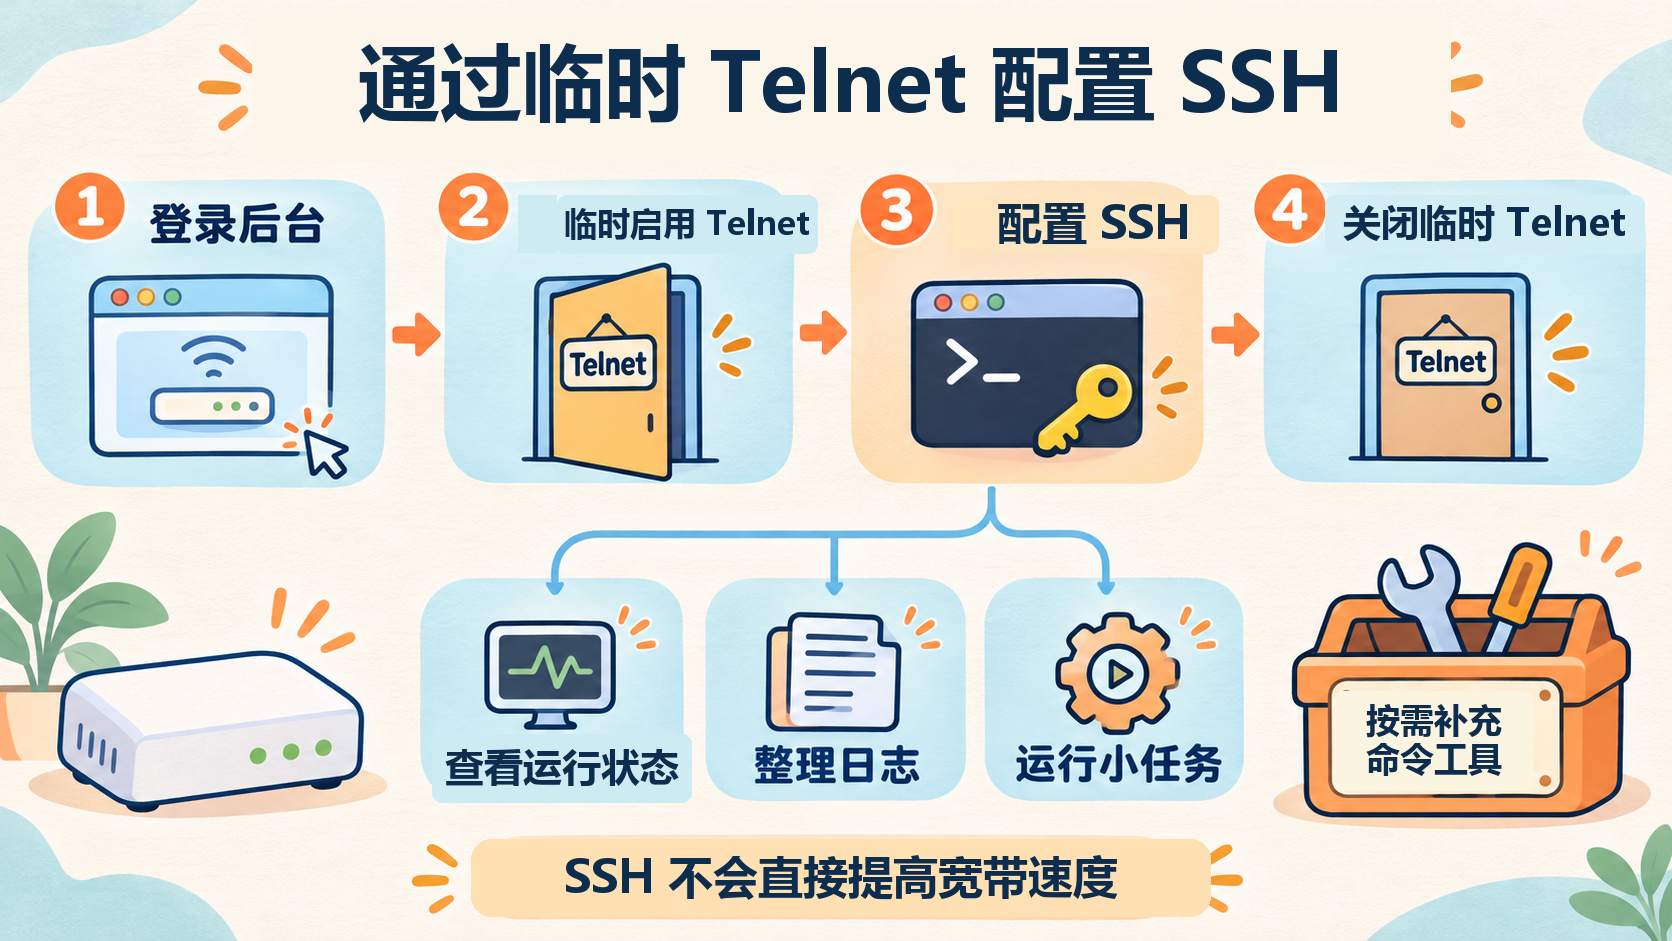
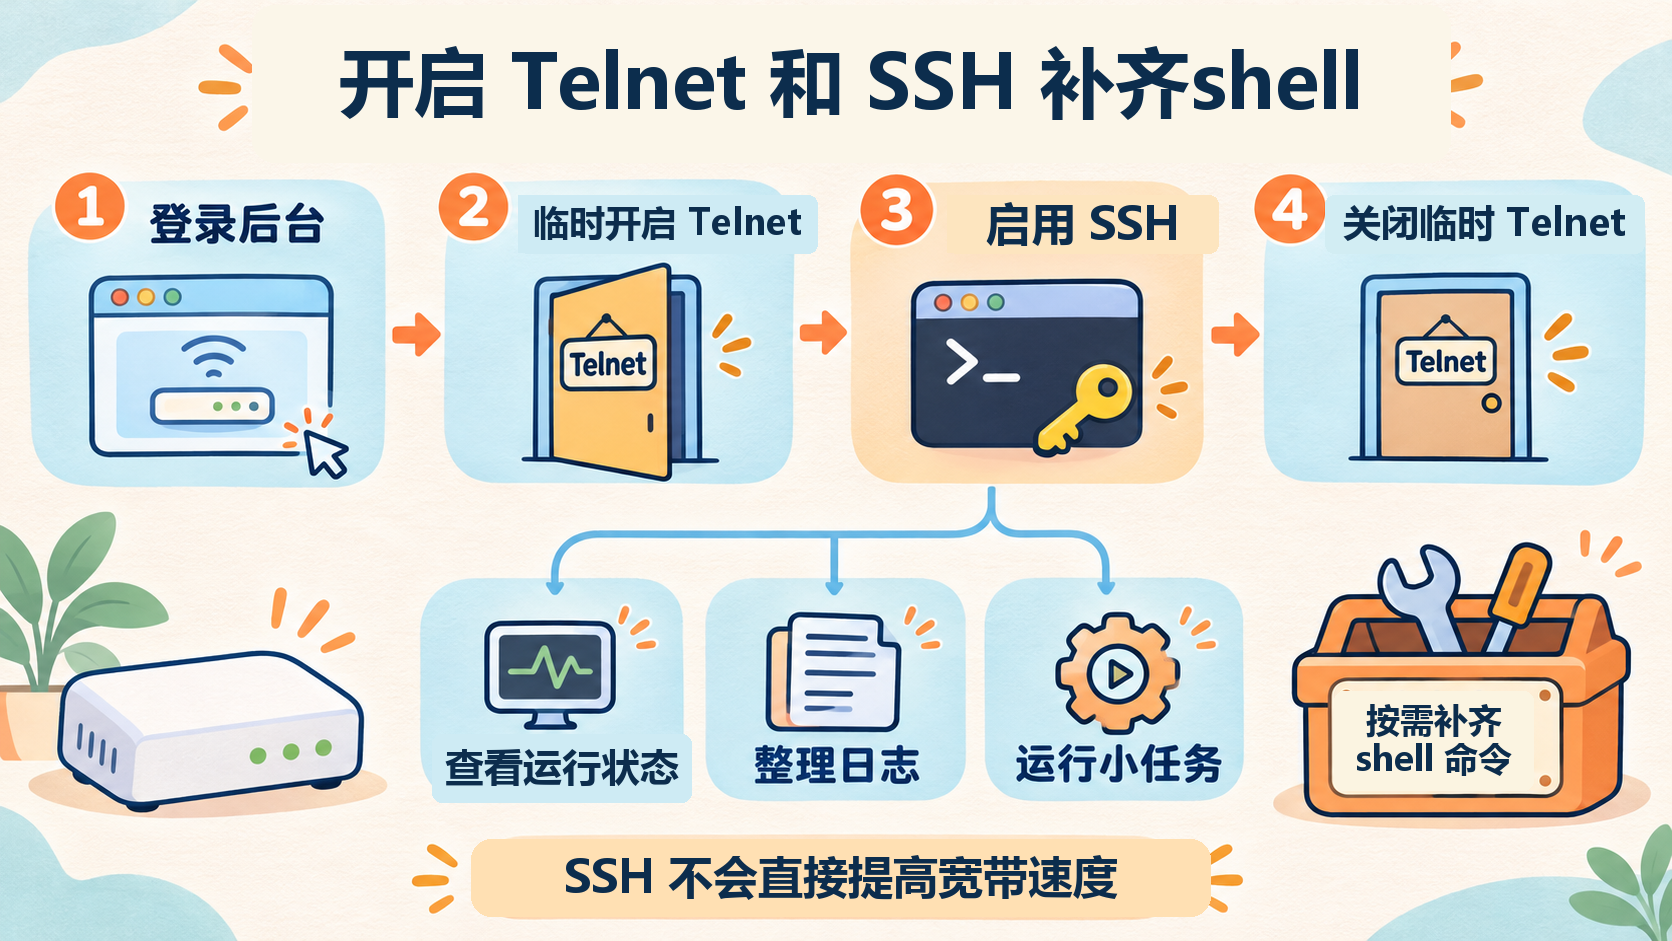
Align guide title and Telnet SSH shell terminology

diff --git a/AGENTS.md b/AGENTS.md
@@ -4,7 +4,8 @@
 
 ## 写法和当前范围
 
-- 主线只有：连上后台、通过临时 Telnet 安装 SSH、按需补齐命令。
+- README 标题保留为“上海、浙江电信光猫：开启 Telnet 和 SSH 补齐shell”。后文章节、提示词、Skill、配图和当前 Release 的措辞保持一致。
+- 主线只有：连上后台、临时开启 Telnet、安装并启用 SSH、按需补齐 shell 常用命令。SSH 验证成功后关闭本次临时开启的 Telnet，不暗示永久开放 Telnet。
 - 首次出现的关键术语给出准确解释，避免过度口语化、省略必要释义或将维护操作描述为可以任意执行。
 - 不放作者的私人网络架构，爱快只作为通用路由器例子。
 - 解释三种常见上网方式，不把桥接写成必选项，也不把静态路由写成必然足够。
